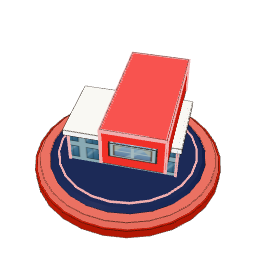
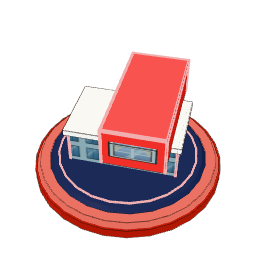
Fix flickering roofs: separate coplanar faces on striped awnings, tents, friezes and neon trims
Claude-Session: https://claude.ai/code/session_01V4YyAKihYYsoGwYTXiWyG9

diff --git a/src/models/desert.ts b/src/models/desert.ts
@@ -21,9 +21,9 @@ function sand(b: Builder, y: number, r = 0.4) {
 
 /** Egyptian frieze: a blue band with gold dashes along the front. */
 function frieze(b: Builder, w: number, z: number, y: number, x = 0) {
-  b.box(w, 0.03, 0.012, 'matte', BLUE, { x, z, y });
+  b.box(w + 0.008, 0.03, 0.012, 'matte', BLUE, { x, z: z + 0.003, y });
   const n = Math.max(3, Math.round(w / 0.06));
-  for (let i = 0; i < n; i++) b.box(0.02, 0.012, 0.014, 'gloss', GOLD, { x: x - w / 2 + (w * (i + 0.5)) / n, z, y: y + 0.009 });
+  for (let i = 0; i < n; i++) b.box(0.02, 0.012, 0.02, 'gloss', GOLD, { x: x - w / 2 + (w * (i + 0.5)) / n, z: z + 0.002, y: y + 0.009 });
 }
 
 /** A dome in the tier colour on a short drum, gold tip. */
@@ -67,7 +67,7 @@ const tent: Build = (_H, color) => {
   const y = sand(b, base(b, color));
   b.box(0.36, 0.008, 0.24, 'matte', '#b8433a', { y, z: 0.2 });
   b.gable(0.54, 0.32, 0.5, 'matte', color, { y, ry: Math.PI / 2 }, 0.0);
-  b.gable(0.56, 0.1, 0.18, 'matte', shade(color, 1.25), { y: y + 0.22, ry: Math.PI / 2 }, 0.0);
+  b.gable(0.58, 0.11, 0.2, 'matte', shade(color, 1.25), { y: y + 0.226, ry: Math.PI / 2 }, 0.0);
   b.gable(0.2, 0.18, 0.2, 'matte', '#3a2418', { y, z: 0.17, ry: Math.PI / 2 }, 0.0);
   for (const z of [-0.26, 0.26]) b.cyl(0.01, 0.01, 0.38, 'wood', '#6d4c33', { z, y }, 5);
   return b.finish();
@@ -80,7 +80,7 @@ const stall: Build = (_H, color) => {
   b.box(0.5, 0.14, 0.24, 'wood', '#a87a4a', { y, z: -0.04 });
   for (const [x, z] of [[-0.24, -0.15], [0.24, -0.15], [-0.24, 0.15], [0.24, 0.15]] as const) b.box(0.025, 0.3, 0.025, 'wood', '#6d4c33', { x, z, y });
   stripedBox(b, 0.58, 0.03, 0.4, color, '#fff3dc', { y: y + 0.3 }, 7, 'matte');
-  b.box(0.58, 0.07, 0.01, 'matte', color, { y: y + 0.24, z: 0.2 });
+  b.box(0.58, 0.07, 0.01, 'matte', color, { y: y + 0.24, z: 0.21 });
   const spice = ['#e05a2a', '#f2c14e', '#7a9a3a'];
   spice.forEach((c, i) => {
     b.cyl(0.05, 0.04, 0.05, 'wood', '#c89a5a', { x: -0.15 + i * 0.15, z: 0.12, y: y + 0.14 }, 10);
@@ -123,7 +123,8 @@ const courtyard: Build = (_H, color) => {
   b.box(0.68, 0.24, 0.16, 'plaster', SANDSTONE, { y, z: -0.18 });
   b.box(0.16, 0.24, 0.34, 'plaster', SANDSTONE, { y, x: -0.26, z: 0.07 });
   b.box(0.16, 0.24, 0.34, 'plaster', SANDSTONE, { y, x: 0.26, z: 0.07 });
-  for (const [w, d, x, z] of [[0.72, 0.2, 0, -0.18], [0.2, 0.38, -0.26, 0.07], [0.2, 0.38, 0.26, 0.07]] as const) b.box(w, 0.04, d, 'gloss', color, { y: y + 0.24, x, z });
+  b.box(0.72, 0.045, 0.2, 'gloss', color, { y: y + 0.24, z: -0.18 });
+  for (const x of [-0.26, 0.26]) b.box(0.2, 0.04, 0.3, 'gloss', color, { y: y + 0.24, x, z: 0.11 });
   frieze(b, 0.68, -0.098, y + 0.18);
   b.cyl(0.08, 0.09, 0.04, 'plaster', PLASTER, { y }, 14);
   b.cyl(0.065, 0.065, 0.01, 'gloss', '#3fd0d0', { y: y + 0.04 }, 14);
@@ -239,7 +240,7 @@ const stepPyramid: Build = (H, color) => {
     const w = 0.76 - i * 0.1;
     b.box(w, h / steps / 1.2, w, 'brick', i % 2 ? SANDSTONE : shade(SANDSTONE, 0.92), { y: y + (h / steps) * i * 0.83 });
   }
-  b.box(0.1, h * 0.8, 0.12, 'plaster', shade(SANDSTONE, 0.85), { y, z: 0.32 });
+  b.box(0.1, h * 0.8, 0.12, 'plaster', shade(SANDSTONE, 0.85), { y, z: 0.326 });
   const top = y + (h / steps) * steps * 0.83;
   b.box(0.18, 0.12, 0.18, 'gloss', color, { y: top });
   b.box(0.22, 0.03, 0.22, 'gloss', GOLD, { y: top + 0.12 });
@@ -278,7 +279,7 @@ const sphinx: Build = (H, color) => {
   b.box(0.06, 0.04, 0.12, 'plaster', SANDSTONE, { y, x: -0.05, z: 0.38 });
   b.box(0.06, 0.04, 0.12, 'plaster', SANDSTONE, { y, x: 0.05, z: 0.38 });
   b.box(0.12, 0.12, 0.1, 'plaster', SANDSTONE, { y: y + 0.08, z: 0.3 });
-  b.box(0.16, 0.08, 0.12, 'gloss', color, { y: y + 0.17, z: 0.29 }, 0.02);
+  b.box(0.16, 0.08, 0.124, 'gloss', color, { y: y + 0.17, z: 0.292 }, 0.02);
   for (const s of [-1, 1]) b.box(0.04, 0.12, 0.06, 'gloss', color, { x: s * 0.08, y: y + 0.08, z: 0.32 });
   b.box(0.04, 0.012, 0.13, 'gloss', GOLD, { y: y + 0.24, z: 0.29 });
   return b.finish();

diff --git a/src/models/themekit.ts b/src/models/themekit.ts
@@ -45,9 +45,10 @@ export function pine(b: Builder, x: number, z: number, y: number, h = 0.3, snow 
 export function stripedBox(b: Builder, w: number, h: number, d: number, a: string, c: string, at: { x?: number; y: number; z?: number }, n = 6, mat: MatKey = 'wood') {
   const x0 = at.x ?? 0;
   const z0 = at.z ?? 0;
-  b.box(w, h, d, mat, c, { x: x0, y: at.y, z: z0 });
+  b.box(w - 0.008, h, d, mat, c, { x: x0, y: at.y, z: z0 });
   const sw = w / n;
-  for (let i = 0; i < n; i += 2) b.box(sw, h, d + 0.006, mat, a, { x: x0 - w / 2 + sw * (i + 0.5), y: at.y, z: z0 });
+  // Stripes stand a hair proud of the block on every side; matching faces would z-fight (flicker) as the piece moves.
+  for (let i = 0; i < n; i += 2) b.box(sw, h + 0.008, d + 0.008, mat, a, { x: x0 - w / 2 + sw * (i + 0.5), y: at.y - 0.004, z: z0 });
 }
 
 /** Round water patch sitting on the base (lagoons, pools, lakes). */
@@ -95,11 +96,12 @@ export function neonBox(b: Builder, w: number, h: number, d: number, y: number, 
   const z = at.z ?? 0;
   const t = 0.014;
   for (const sx of [-1, 1])
-    for (const sz of [-1, 1]) b.box(t, h, t, 'glow', glow, { x: x + (sx * w) / 2, z: z + (sz * d) / 2, y });
-  b.box(w + t, t, t, 'glow', glow, { x, z: z + d / 2, y: y + h - t });
-  b.box(w + t, t, t, 'glow', glow, { x, z: z - d / 2, y: y + h - t });
-  b.box(t, t, d + t, 'glow', glow, { x: x - w / 2, z, y: y + h - t });
-  b.box(t, t, d + t, 'glow', glow, { x: x + w / 2, z, y: y + h - t });
+    for (const sz of [-1, 1]) b.box(t, h + 0.004, t, 'glow', glow, { x: x + (sx * w) / 2, z: z + (sz * d) / 2, y });
+  const ry = y + h - t + 0.003;
+  b.box(w + t, t, t, 'glow', glow, { x, z: z + d / 2, y: ry });
+  b.box(w + t, t, t, 'glow', glow, { x, z: z - d / 2, y: ry });
+  b.box(t, t, d + t * 1.4, 'glow', glow, { x: x - w / 2, z, y: ry - 0.001 });
+  b.box(t, t, d + t * 1.4, 'glow', glow, { x: x + w / 2, z, y: ry - 0.001 });
 }
 
 /** Horizontal glowing bands around a cylinder (neon towers). */

diff --git a/src/models/neon.ts b/src/models/neon.ts
@@ -147,7 +147,7 @@ const skyVilla: Build = (_H, color) => {
   b.box(0.76, 0.03, 0.42, 'gloss', WHITE, { y: y + 0.18, z: -0.08 });
   b.box(0.5, 0.2, 0.36, 'gloss', color, { y: y + 0.21, x: -0.1, z: -0.06 });
   b.box(0.36, 0.08, 0.016, 'pane', GLASS, { y: y + 0.27, x: -0.1, z: 0.122 });
-  b.box(0.26, 0.03, 0.4, 'gloss', WHITE, { y: y + 0.21, x: 0.24, z: -0.08 });
+  b.box(0.26, 0.03, 0.39, 'gloss', WHITE, { y: y + 0.21, x: 0.24, z: -0.085 });
   b.box(0.2, 0.012, 0.32, 'glow', '#7ff3ff', { y: y + 0.24, x: 0.24, z: -0.08 });
   neonBox(b, 0.5, 0.2, 0.36, y + 0.21, lit(color), { x: -0.1, z: -0.06 });
   strip(b, 0.74, 0.022, 0.022, lit(color), { y: y + 0.18, z: 0.12 });
@@ -200,8 +200,8 @@ const arcology: Build = (H, color) => {
     const w = 0.76 - i * 0.1;
     const ly = y + i * lh;
     b.box(w, lh, w * 0.66, 'window', GLASS, { y: ly });
-    b.box(w + 0.03, 0.03, w * 0.66 + 0.03, 'gloss', color, { y: ly + lh - 0.03 });
-    b.box(w + 0.035, 0.01, w * 0.66 + 0.035, 'glow', lit(color), { y: ly + lh });
+    b.box(w + 0.03, 0.03, w * 0.66 + 0.03, 'gloss', color, { y: ly + lh - 0.026 });
+    b.box(w + 0.035, 0.01, w * 0.66 + 0.035, 'glow', lit(color), { y: ly + lh + 0.004 });
   }
   b.cone(0.05, 0.25, 'gloss', color, { y: y + levels * lh }, 8);
   return b.finish();
@@ -232,7 +232,7 @@ const holoSky: Build = (H, color) => {
     const w = 0.58 - i * 0.1;
     const sh = (h / n) * (1 - i * 0.05);
     b.box(w, sh, w, 'window', GLASS, { y: sy });
-    b.box(w + 0.03, 0.035, w + 0.03, 'gloss', color, { y: sy + sh - 0.035 });
+    b.box(w + 0.03, 0.035, w + 0.03, 'gloss', color, { y: sy + sh - 0.028 });
     neonBox(b, w, sh, w, sy, lit(color));
     sy += sh;
   }

diff --git a/DECISIONS.md b/DECISIONS.md
@@ -524,3 +524,8 @@ The user painted three more backdrops in the house style (crane, cones, scaffold
 - **Settings button:** a proper filled cogwheel, centred (icon-only buttons no longer reserve space for an empty label).
 
 **Aim guide end ring removed (playtest feedback):** the ghost ring where the building lands was removed; the dots now run all the way to the landing spot. Bounce rings and the red stop sign stay.
+
+**Roof flicker fixed (playtest feedback):** the Market Stall's striped awning (and the Nomad Tent's top band) blinked while moving. Two surfaces sat in exactly the same plane, so the GPU alternated which one it drew (z-fighting).
+- `stripedBox` now makes the stripes stand a hair proud of the block on every side.
+- The tent band, the courtyard parapets and the Egyptian friezes were nudged apart.
+- A one-off scan of every model (every axis-aligned box pair sharing a visible face plane) also found and fixed the same problem on the neon trims (`neonBox` rims and posts), the Arcology and Holo Skyscraper bands, the Sky Villa deck, the Step Pyramid stair and the Sphinx headdress. The remaining coplanar pairs are hidden under roofs or slabs.
